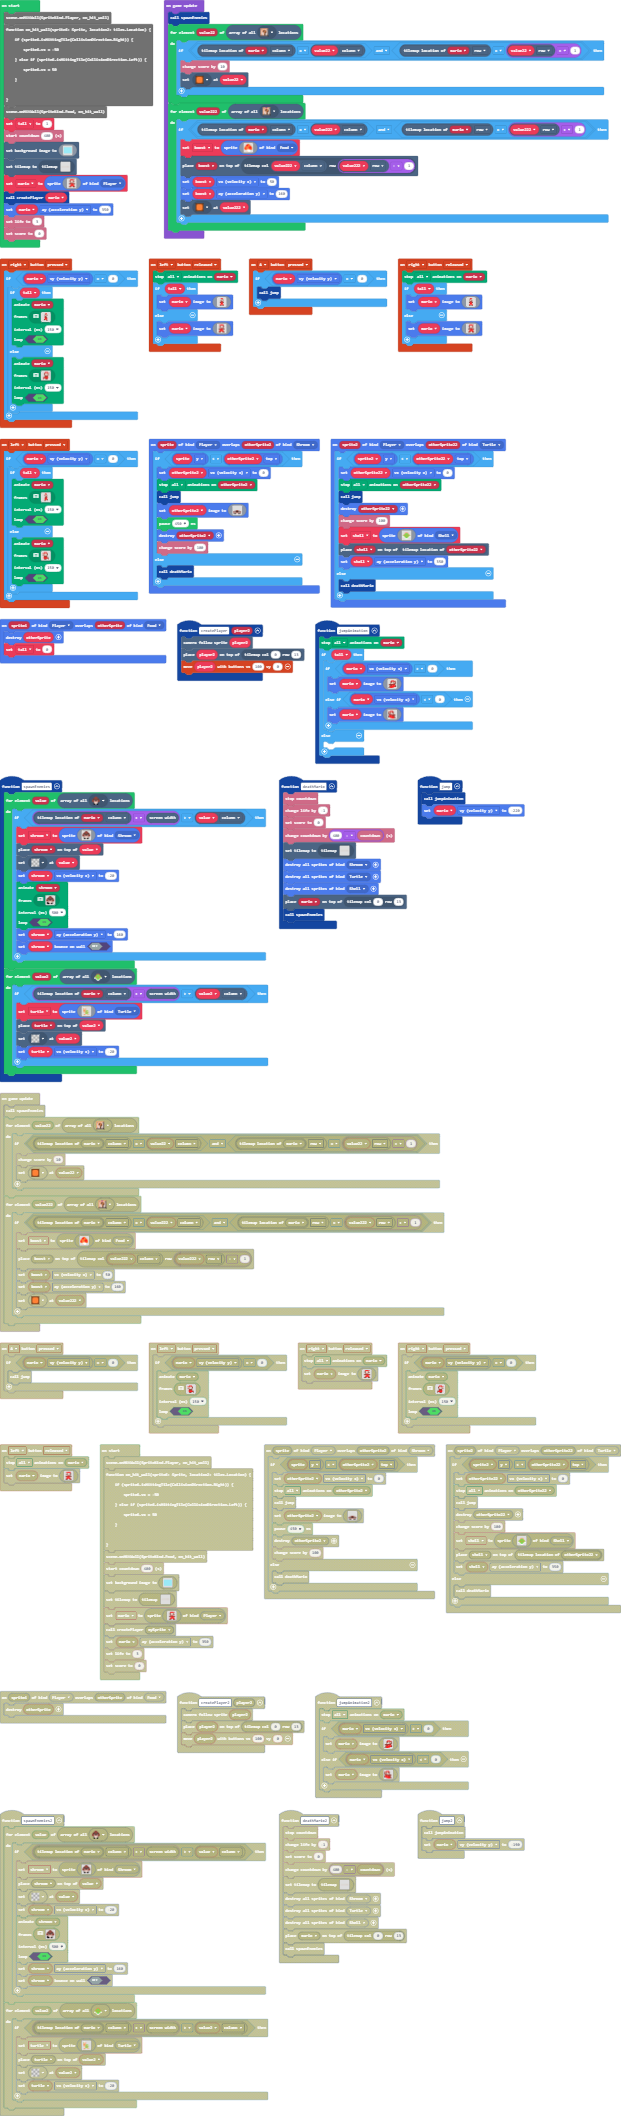
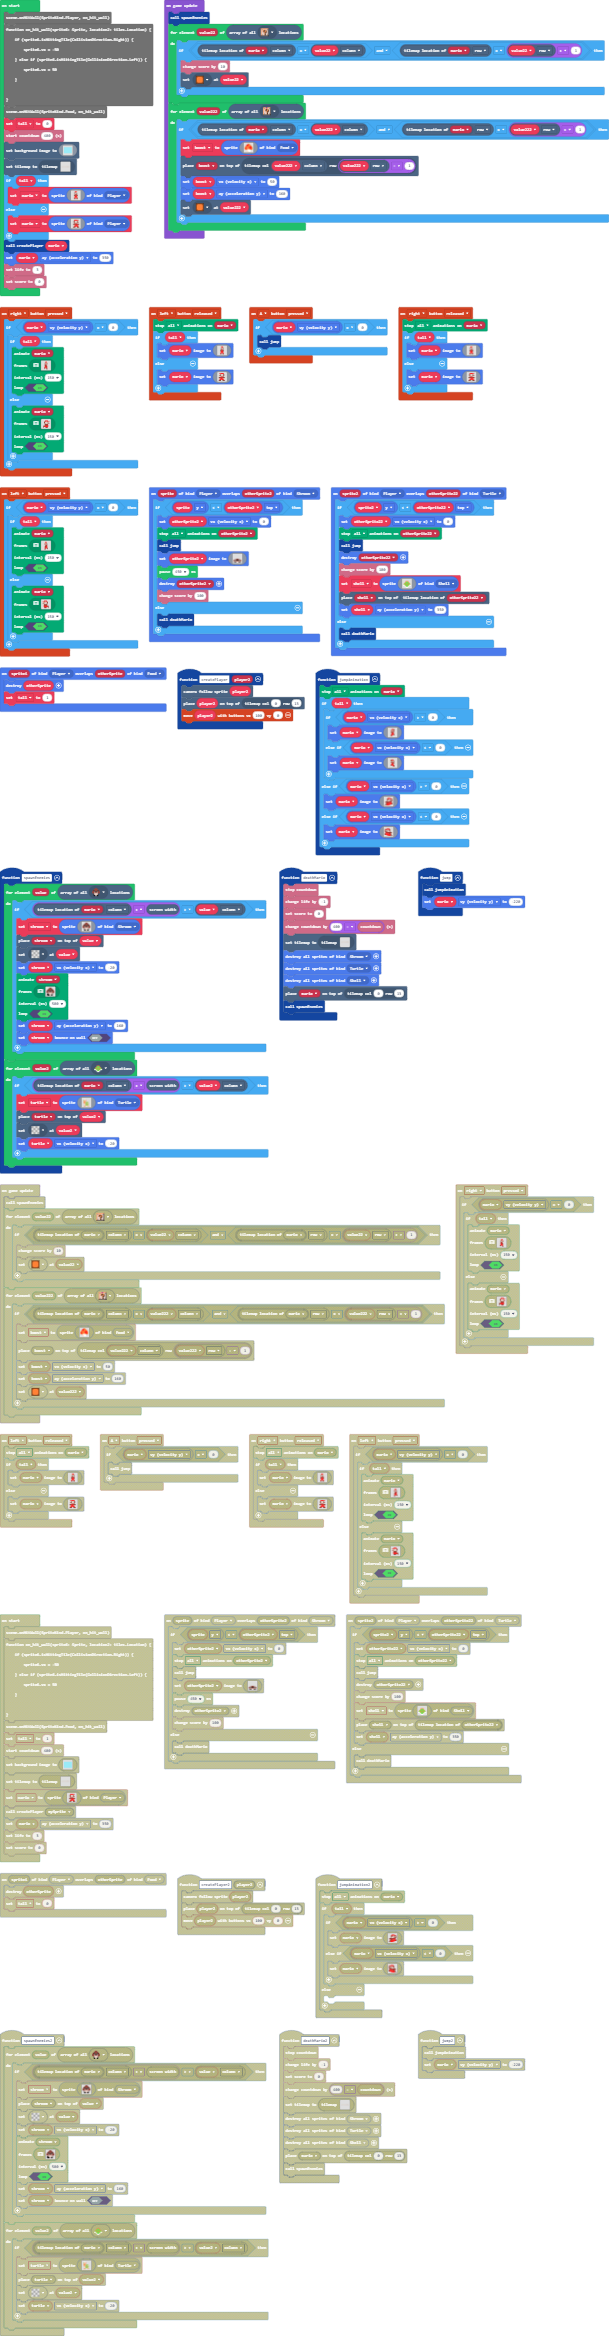
level up in progress

diff --git a/main.ts b/main.ts
@@ -7,12 +7,14 @@ function jumpAnimation () {
     animation.stopAnimation(animation.AnimationTypes.All, mario)
     if (tall) {
         if (mario.vx > 0) {
-            mario.setImage(assets.image`jump_right`)
+            mario.setImage(assets.image`tall_mario_jump_right`)
         } else if (mario.vx < 0) {
-            mario.setImage(assets.image`jump_left`)
+            mario.setImage(assets.image`tall_mario_jump_left`)
         }
-    } else {
-    	
+    } else if (mario.vx > 0) {
+        mario.setImage(assets.image`jump_right`)
+    } else if (mario.vx < 0) {
+        mario.setImage(assets.image`jump_left`)
     }
 }
 sprites.onOverlap(SpriteKind.Player, SpriteKind.Shroom, function (sprite, otherSprite2) {
@@ -198,7 +200,7 @@ sprites.onOverlap(SpriteKind.Player, SpriteKind.Shell, function (sprite3, otherS
 })
 sprites.onOverlap(SpriteKind.Player, SpriteKind.Food, function (sprite4, otherSprite) {
     sprites.destroy(otherSprite)
-    tall = 0
+    tall = 1
 })
 let boost: Sprite = null
 let turtle: Sprite = null
@@ -216,7 +218,7 @@ function on_hit_wall(sprite6: Sprite, location2: tiles.Location) {
     
 }
 scene.onHitWall(SpriteKind.Food, on_hit_wall)
-tall = 1
+tall = 0
 info.startCountdown(400)
 scene.setBackgroundImage(img`
     9999999999999999999999999999999999999999999999999999999999999999999999999999999999999999999999999999999999999999999999999999999999999999999999999999999999999999
@@ -341,7 +343,11 @@ scene.setBackgroundImage(img`
     9999999999999999999999999999999999999999999999999999999999999999999999999999999999999999999999999999999999999999999999999999999999999999999999999999999999999999
     `)
 tiles.setCurrentTilemap(tilemap`level_1_2`)
-mario = sprites.create(assets.image`mario_right`, SpriteKind.Player)
+if (tall) {
+    mario = sprites.create(assets.image`tall_mario_right0`, SpriteKind.Player)
+} else {
+    mario = sprites.create(assets.image`mario_right`, SpriteKind.Player)
+}
 createPlayer(mario)
 mario.ay = 350
 info.setLife(3)

diff --git a/images.g.ts b/images.g.ts
@@ -505,6 +505,76 @@ dddd22222222dddd
 eeeeee....eeeeee
 eeeeee....eeeeee
 `;
+            case "image22":
+            case "tall_mario_jump_right":return img`
+................
+............dedd
+......22222ddeed
+....2222224ddddd
+...22222244eeeee
+...22222222222ee
+...eeeddedddeeee
+..eddeddeeddddee
+..eddeedddddddde
+.eeddeedddedddde
+.eedddddeeeeeee.
+.eeeeddddeeeede.
+...eeddddddddee.
+....2222ee2eeee.
+.eeeeee22e2eee..
+eeeeeeee2ee2ee..
+eeeeeeee22e2e...
+eeddeeee22ee2...
+eddddee2222ed...
+ddddde222d222...
+ddddd22222222...
+d.dd222222222..e
+.dd2222222222.ee
+...222222222eeee
+...e22222222eeee
+eee2ee222222eeee
+eee222ee..22eeee
+eee22222........
+eee22222........
+eee2222.........
+ee..............
+e...............
+`;
+            case "image23":
+            case "tall_mario_jump_left":return img`
+................
+dded............
+deedd22222......
+ddddd4222222....
+eeeee44222222...
+ee22222222222...
+eeeedddeddeee...
+eeddddeeddedde..
+eddddddddeedde..
+eddddedddeeddee.
+.eeeeeeedddddee.
+.edeeeeddddeeee.
+.eeddddddddee...
+.eeee2ee2222....
+..eee2e22eeeeee.
+..ee2ee2eeeeeeee
+...e2e22eeeeeeee
+...2ee22eeeeddee
+...de2222eedddde
+...222d222eddddd
+...22222222ddddd
+e..222222222dd.d
+ee.2222222222dd.
+eeee222222222...
+eeee22222222e...
+eeee222222ee2eee
+eeee22..ee222eee
+........22222eee
+........22222eee
+.........2222eee
+..............ee
+...............e
+`;
         }
         return null;
     })

diff --git a/main.py b/main.py
@@ -8,14 +8,20 @@ def jumpAnimation():
     if tall:
         if mario.vx > 0:
             mario.set_image(assets.image("""
-                jump_right
+                tall_mario_jump_right
             """))
         elif mario.vx < 0:
             mario.set_image(assets.image("""
-                jump_left
+                tall_mario_jump_left
             """))
-    else:
-        pass
+    elif mario.vx > 0:
+        mario.set_image(assets.image("""
+            jump_right
+        """))
+    elif mario.vx < 0:
+        mario.set_image(assets.image("""
+            jump_left
+        """))
 
 def on_on_overlap(sprite, otherSprite2):
     if sprite.y < otherSprite2.top:
@@ -223,7 +229,7 @@ sprites.on_overlap(SpriteKind.player, SpriteKind.Shell, on_on_overlap3)
 def on_on_overlap4(sprite4, otherSprite):
     global tall
     sprites.destroy(otherSprite)
-    tall = 0
+    tall = 1
 sprites.on_overlap(SpriteKind.player, SpriteKind.food, on_on_overlap4)
 
 boost: Sprite = None
@@ -239,7 +245,7 @@ def on_hit_wall(sprite6: Sprite, location2: tiles.Location):
     elif sprite6.is_hitting_tile(CollisionDirection.LEFT):
         sprite6.vx = 50
 scene.on_hit_wall(SpriteKind.food, on_hit_wall)
-tall = 1
+tall = 0
 info.start_countdown(400)
 scene.set_background_image(img("""
     9999999999999999999999999999999999999999999999999999999999999999999999999999999999999999999999999999999999999999999999999999999999999999999999999999999999999999
@@ -366,9 +372,15 @@ scene.set_background_image(img("""
 tiles.set_current_tilemap(tilemap("""
     level_1_2
 """))
-mario = sprites.create(assets.image("""
-    mario_right
-"""), SpriteKind.player)
+if tall:
+    mario = sprites.create(assets.image("""
+            tall_mario_right0
+        """),
+        SpriteKind.player)
+else:
+    mario = sprites.create(assets.image("""
+        mario_right
+    """), SpriteKind.player)
 createPlayer(mario)
 mario.ay = 350
 info.set_life(3)
